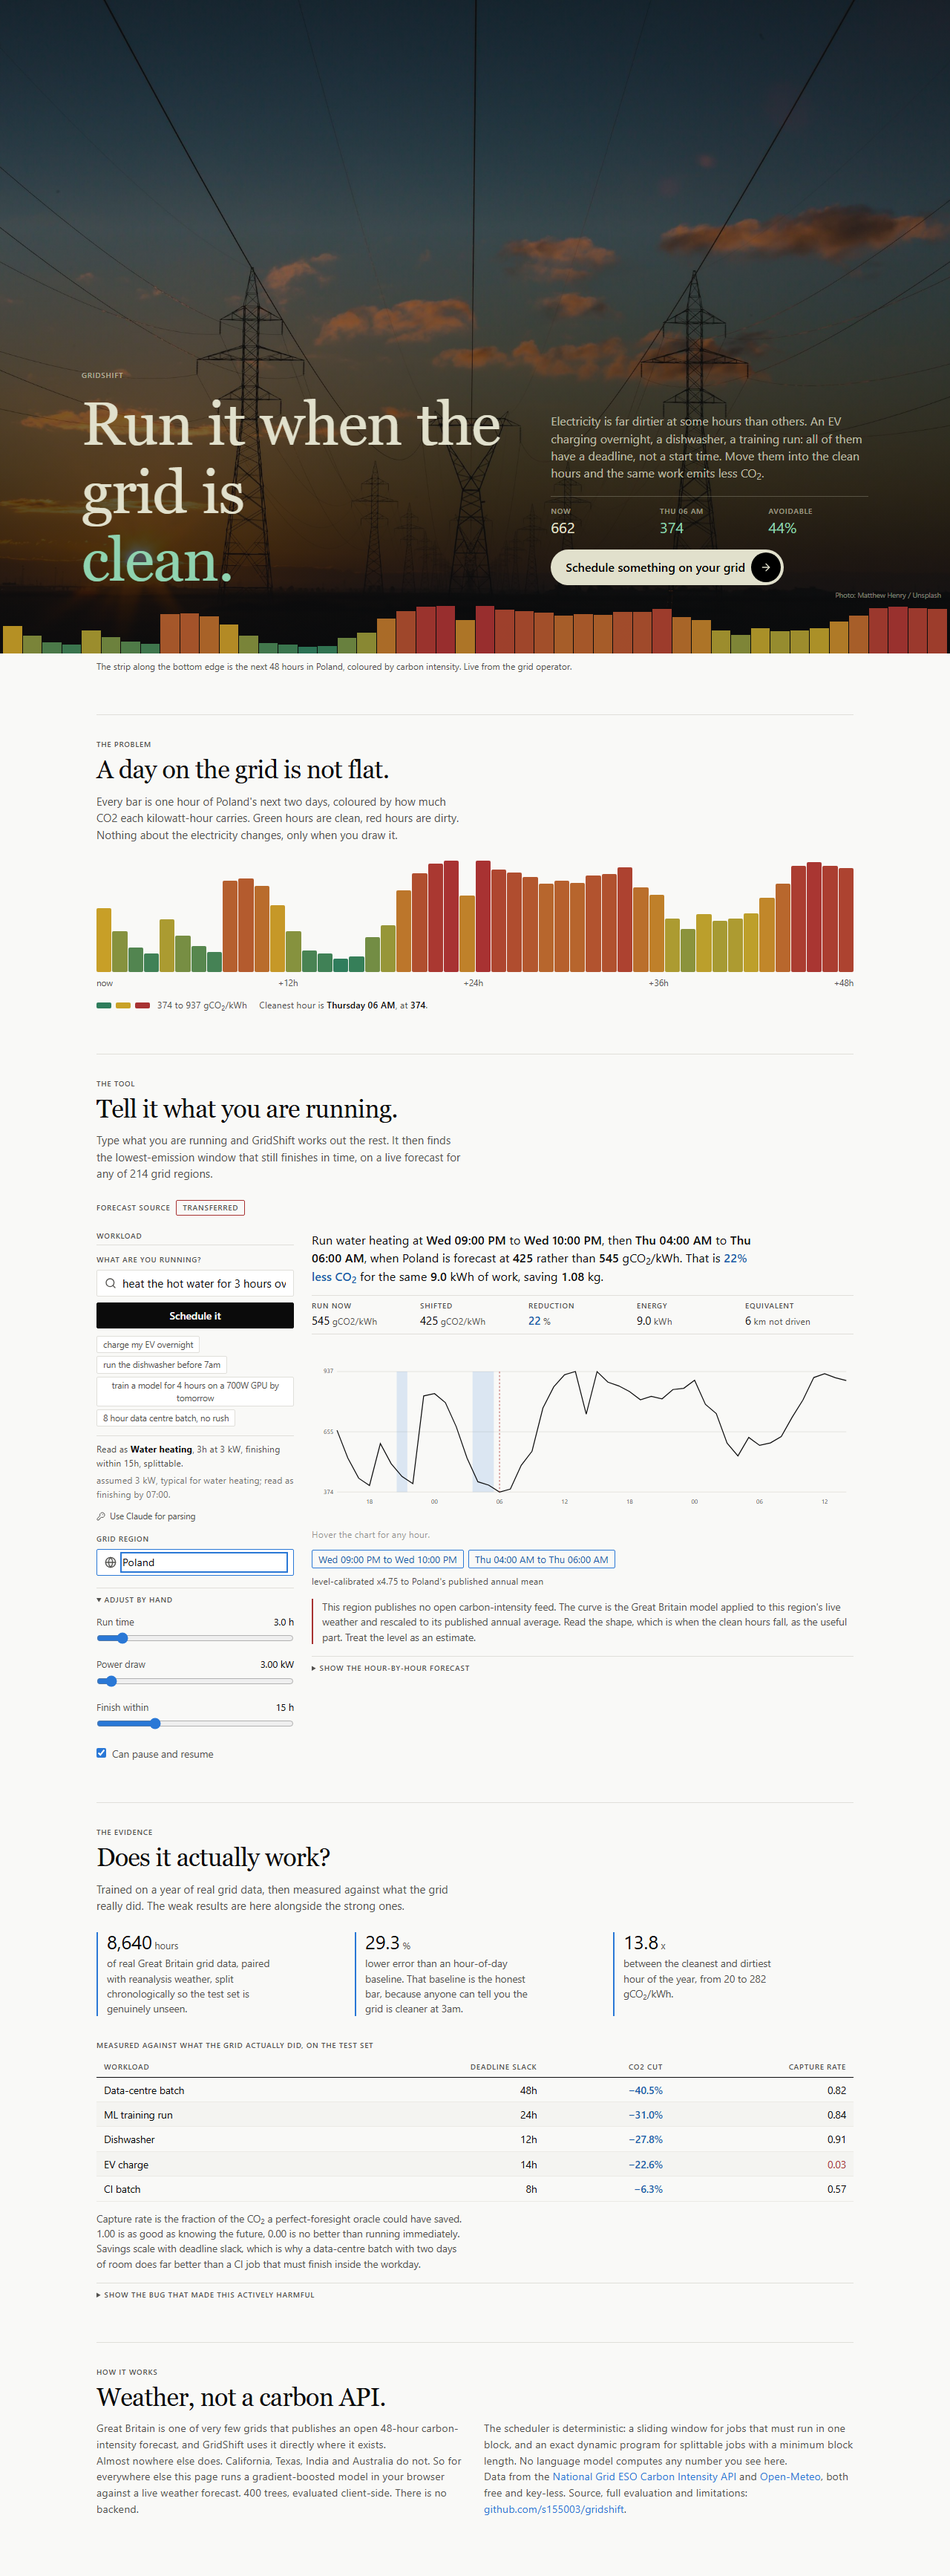
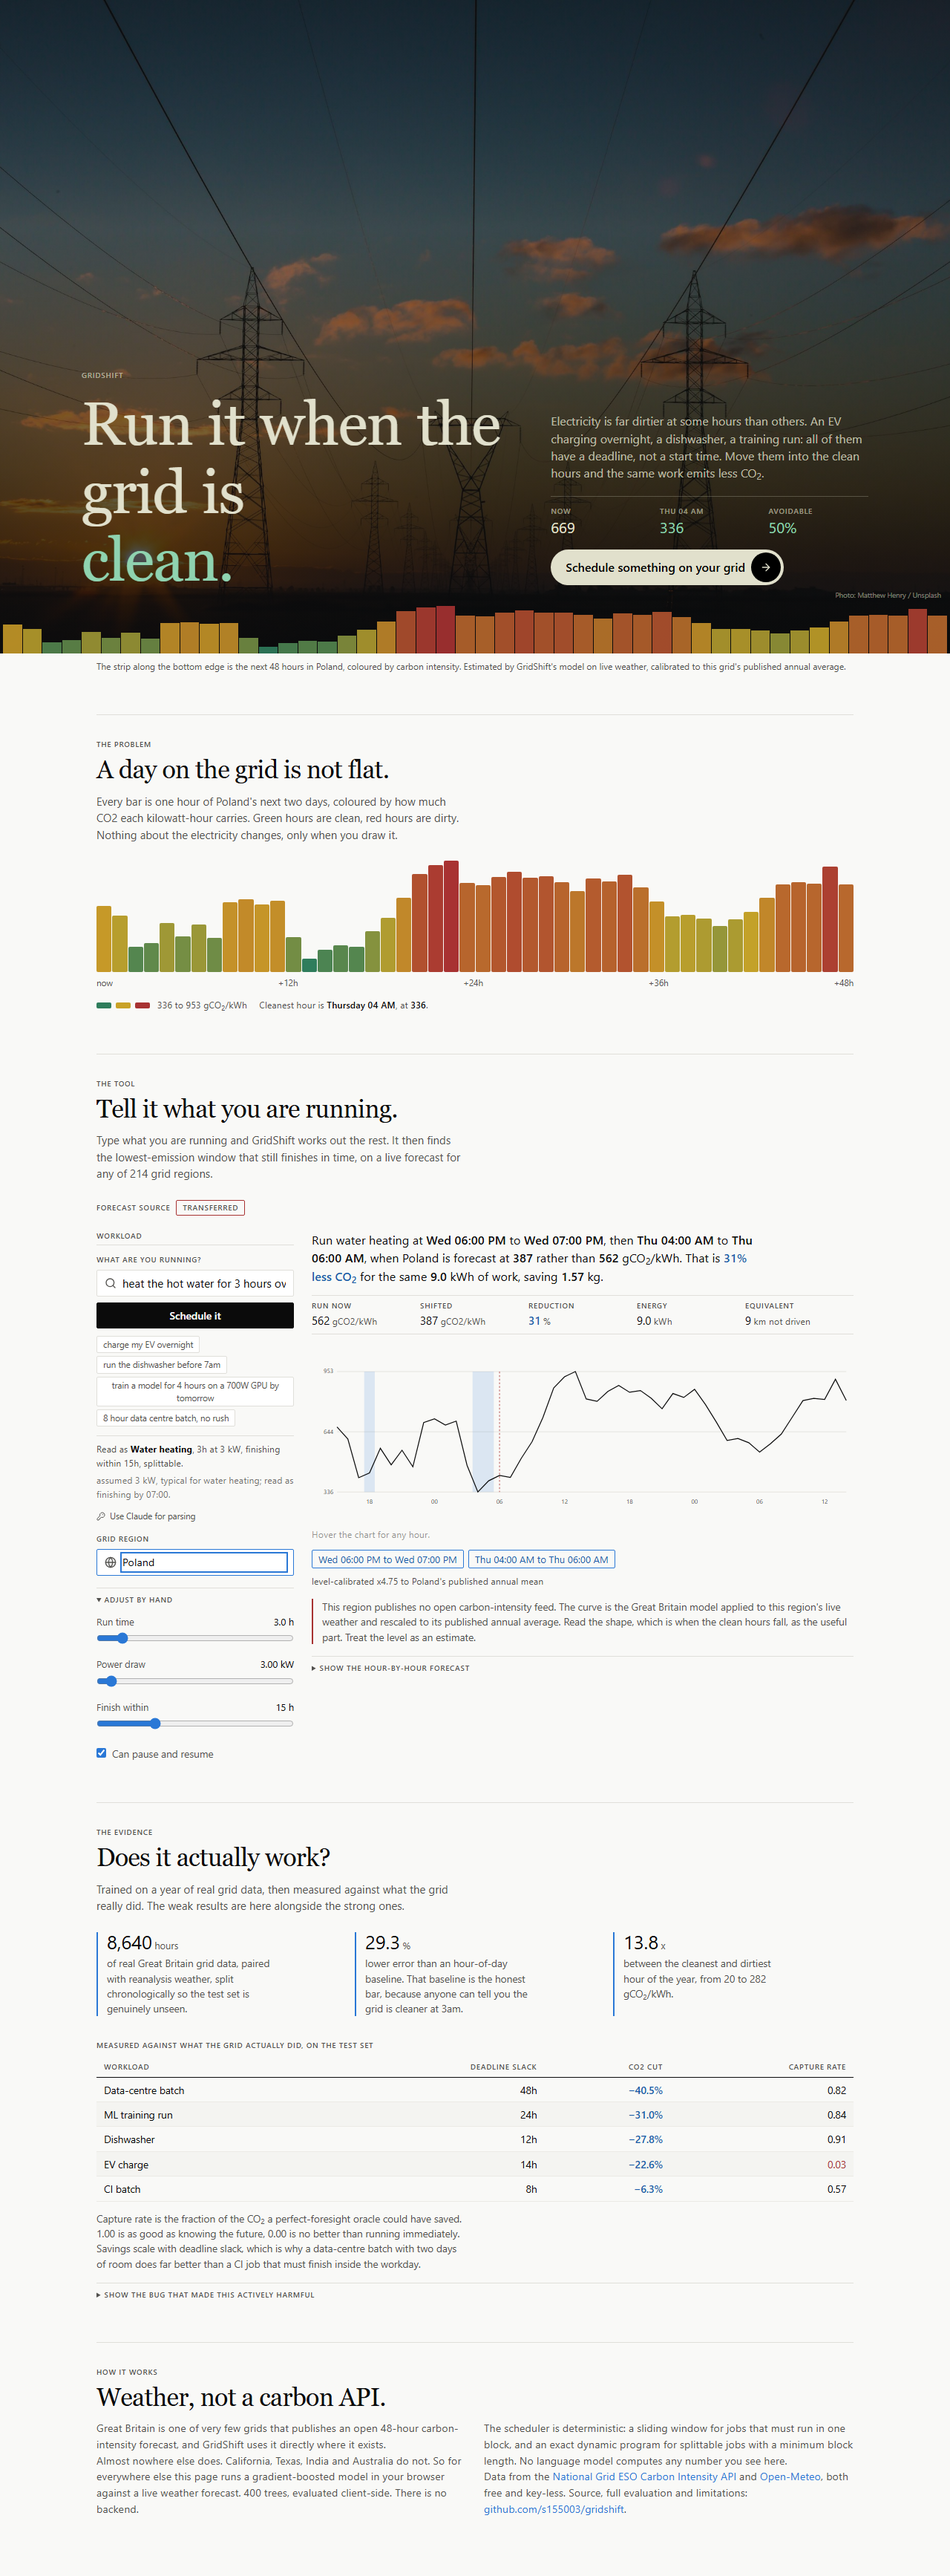
Fix three parser bugs found by typing arbitrary scenarios
Word-boundary keyword matching. Substring matching meant the ev in whenever,
however and seven scheduled an EV charge.

Deadline phrasing. before the 6am delivery is now read as a deadline rather
than ignored.

Fallback naming. Unknown workloads read as aquarium chiller rather than
run my aquarium chiller or brew beer for 4.

Root cause of all three not landing sooner: heredocs wrote literal 0x08
backspace bytes where backslash-b was intended, so those regexes could never
match. Repaired and the file is now free of control characters.

diff --git a/web/src/lib/parseWorkload.js b/web/src/lib/parseWorkload.js
@@ -54,6 +54,13 @@ const ATOMIC_HINTS = ["dishwasher", "cycle", "wash", "render", "migration", "bak
 
 const NUM = "(\\d+(?:\\.\\d+)?)";
 
+/* Keywords must match whole words. Plain substring matching meant the "ev" in
+   "whenever" scheduled an EV charge, which is the kind of wrong that makes the
+   product look like it is guessing rather than reading. */
+const matchesKeyword = (haystack, kw) =>
+  new RegExp(String.raw`\b${kw}\b`, "i").test(haystack);
+
+
 /** "6 hours", "6h", "90 minutes", "an hour and a half" */
 function parseDuration(s) {
   let m = s.match(new RegExp(`${NUM}\\s*(?:hours?|hrs?|h)\\b`));
@@ -83,7 +90,8 @@ function parseDeadline(s, now, horizon) {
   if (m) return { value: +m[1], explicit: true, note: null };
 
   // "by 8am", "before 7 pm", "by 08:30"
-  m = s.match(/(?:by|before)\s+(\d{1,2})(?::(\d{2}))?\s*(am|pm)?/);
+  m = s.match(/(?:by|before)\s+(?:the\s+|my\s+|our\s+)?(\d{1,2})(?::(\d{2}))?\s*(am|pm)\b/)
+    || s.match(/(?:by|before)\s+(\d{1,2})(?::(\d{2}))?\s*(am|pm)?\b/);
   if (m) {
     let hour = +m[1];
     const mins = m[2] ? +m[2] : 0;
@@ -113,6 +121,20 @@ function parseDeadline(s, now, horizon) {
   return { value: null, explicit: false, note: null };
 }
 
+/* A short label for something the device table does not know about. Drops the
+   leading imperative and any trailing fragment, so "run my aquarium chiller for
+   5 hours" reads as "aquarium chiller" rather than "run my aquarium chiller"
+   and "brew beer for 4 hours" does not end mid-number. */
+const LEADING = /^(?:can you\s+|please\s+)?(?:run|start|schedule|do|charge up|put on|set|kick off)\s+/i;
+const TRAILING = /\s+(?:for|by|before|within|in|at|tonight|tomorrow|today|overnight|whenever|sometime|asap)\b.*$/i;
+
+function fallbackName(text) {
+  let s = text.trim().replace(LEADING, "").replace(TRAILING, "");
+  s = s.replace(/^(?:my|the|our|a|an)\s+/i, "").replace(/[,.;:]+$/, "").trim();
+  const words = s.split(/\s+/).filter(Boolean).slice(0, 4);
+  return words.join(" ") || "job";
+}
+
 /**
  * @param {string} text  what the reader typed
  * @param {{now?: Date, horizon?: number}} opts
@@ -122,7 +144,7 @@ export function parseWorkload(text, { now = new Date(), horizon = 48 } = {}) {
   const s = ` ${text.toLowerCase().trim()} `;
   const notes = [];
 
-  const device = DEVICES.find((d) => d.k.some((kw) => s.includes(kw))) ?? null;
+  const device = DEVICES.find((d) => d.k.some((kw) => matchesKeyword(s, kw))) ?? null;
 
   const dur = parseDuration(s);
   const pow = parsePower(s);
@@ -146,12 +168,12 @@ export function parseWorkload(text, { now = new Date(), horizon = 48 } = {}) {
   deadline = Math.min(Math.max(deadline, Math.ceil(durationHours)), horizon);
 
   let interruptible = device?.split ?? false;
-  if (SPLITTABLE_HINTS.some((h) => s.includes(h))) interruptible = true;
-  if (ATOMIC_HINTS.some((h) => s.includes(h))) interruptible = false;
+  if (SPLITTABLE_HINTS.some((h) => matchesKeyword(s, h))) interruptible = true;
+  if (ATOMIC_HINTS.some((h) => matchesKeyword(s, h))) interruptible = false;
   if (/\b(can't pause|cannot pause|one go|uninterrupted|in one block)\b/.test(s)) interruptible = false;
   if (/\b(can pause|resumable|checkpoint|splittable)\b/.test(s)) interruptible = true;
 
-  const name = device?.label ?? (text.trim().split(/\s+/).slice(0, 4).join(" ") || "job");
+  const name = device?.label ?? fallbackName(text);
 
   return {
     job: {
